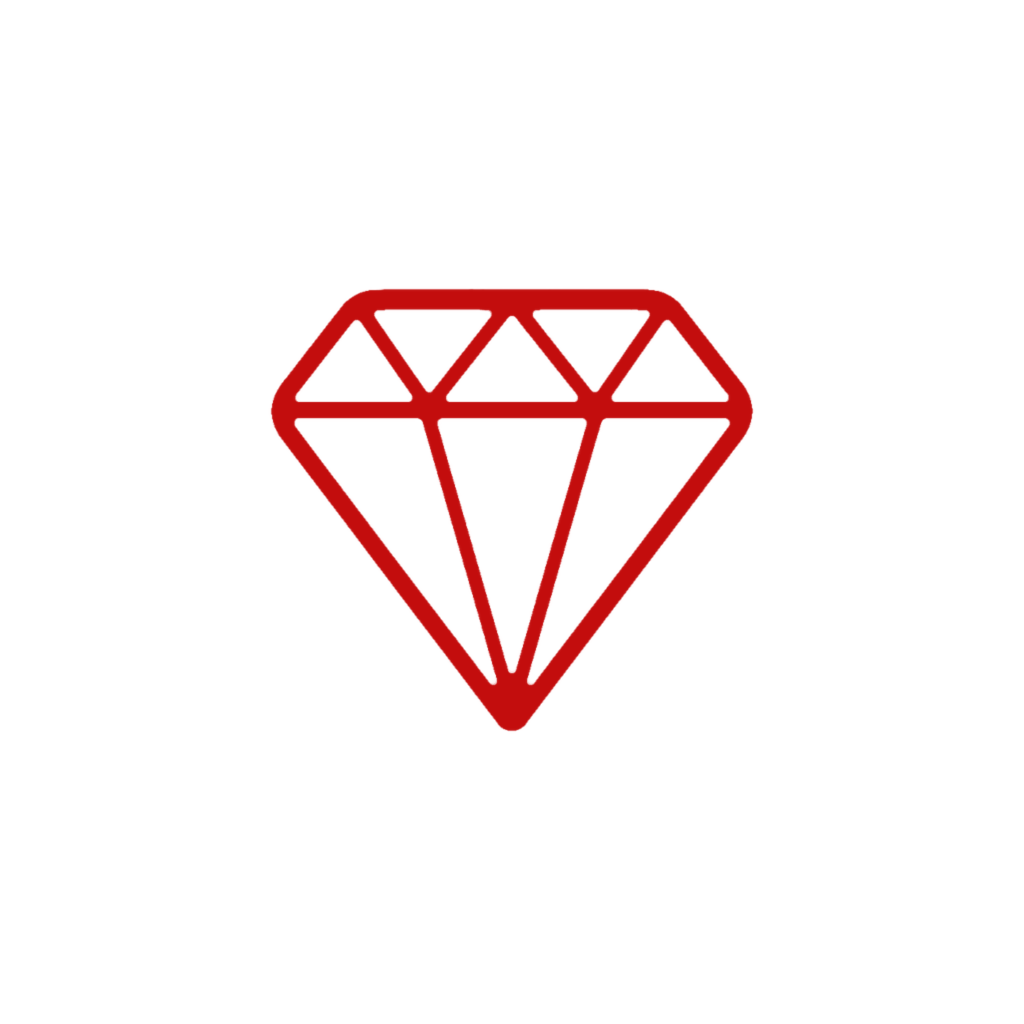
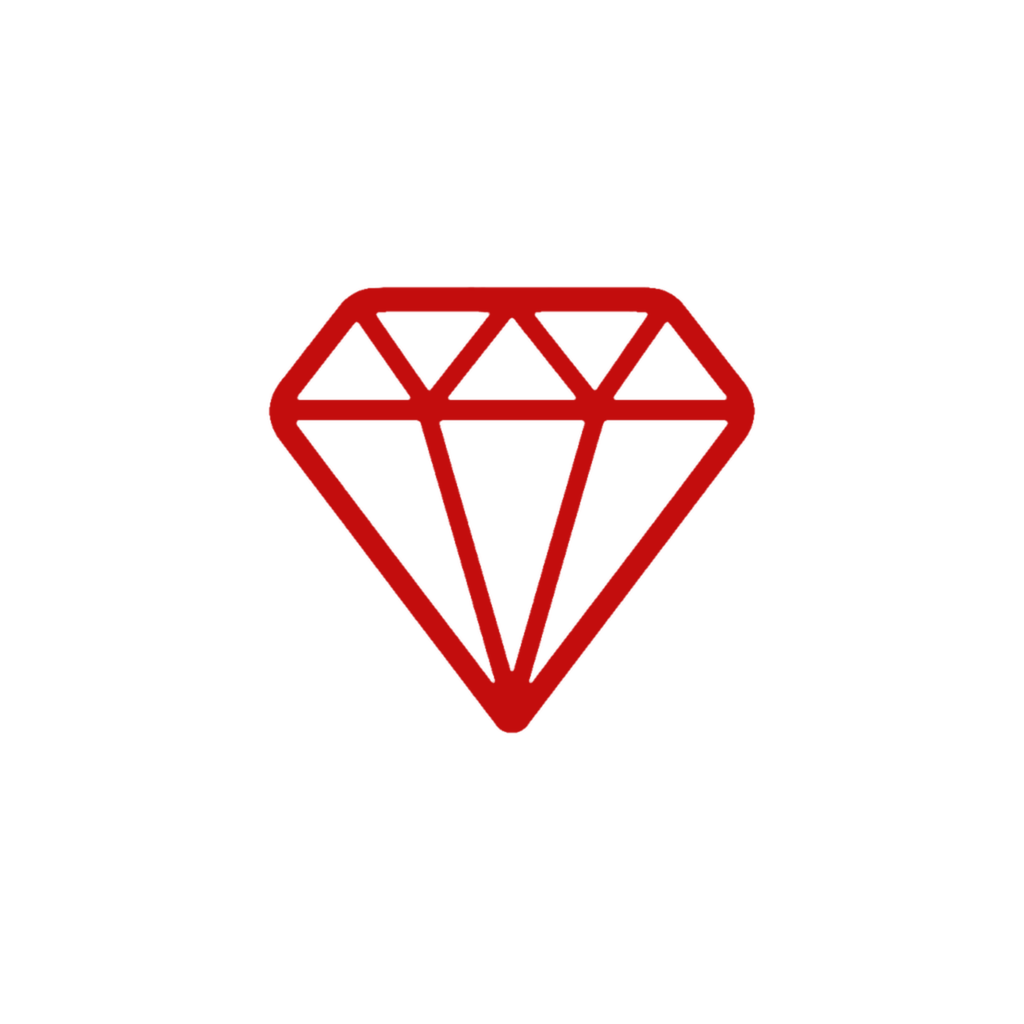
art(fortress): the International treasure draws a heavier line and sits lower
The diamond's outline was the lightest in the International set (23px against
24-28 for the rest) and its many thin facets made it read lighter still. It is
thickened to 28px, the soldier's weight, by round-kernel dilation of the alpha
at 2x. It also drops 2 units on its disc: the diamond is top-heavy, so centred
by its box it read high. The OG card frame mirrors the nudge. Art version 15.

Lesson: centre a top-heavy figure by its visual mass, not its bounding box, because a box-centred shape with a wide top and a point below reads as sitting high.
Lesson-class: visual-design
Lesson-scope: code
Lesson-trigger: design-choice
Lesson-stack: typescript, svg, pillow

Changed region(s): [[0.25, 0.2812, 0.75, 0.7188]]

diff --git a/apps/web/src/xiangqi-piece-sets.test.ts b/apps/web/src/xiangqi-piece-sets.test.ts
@@ -83,8 +83,8 @@ describe('renderXiangqiPieceGlyphed', () => {
     const cannon = renderXiangqiPieceGlyphed({ color: 'black', role: 'cannon' }, 'international', {
       className: 'xq-piece',
     });
-    expect(general).toContain('/piece-sets/xiangqi/international/red-general.png?v=14');
-    expect(cannon).toContain('/piece-sets/xiangqi/international/black-cannon.png?v=14');
+    expect(general).toContain('/piece-sets/xiangqi/international/red-general.png?v=15');
+    expect(cannon).toContain('/piece-sets/xiangqi/international/black-cannon.png?v=15');
     expect(general).toContain('x="-7" y="-7" width="114" height="114"');
     expect(cannon).toContain('x="-11" y="-11" width="122" height="122"');
     expect(cannon).toContain('class="xq-piece"');
@@ -174,7 +174,7 @@ describe('renderXiangqiPieceGlyphed', () => {
     const chessStyle = renderXiangqiPieceGlyphed(piece, 'international-flat', { crossed: true });
 
     expect(international).toContain(
-      '/piece-sets/xiangqi/international/red-crossed-soldier.png?v=14',
+      '/piece-sets/xiangqi/international/red-crossed-soldier.png?v=15',
     );
     expect(chessStyle).toContain(
       '/piece-sets/xiangqi/international-flat/red-crossed-soldier.png?v=2',
@@ -184,9 +184,10 @@ describe('renderXiangqiPieceGlyphed', () => {
   it('renders the international Fortress treasure from the generated cutout art', () => {
     const red = internationalTreasureMarks('red');
     const black = internationalTreasureMarks('black');
-    expect(red).toContain('/piece-sets/xiangqi/international/red-treasure.png?v=14');
-    expect(black).toContain('/piece-sets/xiangqi/international/black-treasure.png?v=14');
-    expect(red).toContain('x="-7" y="-7" width="114" height="114"');
+    expect(red).toContain('/piece-sets/xiangqi/international/red-treasure.png?v=15');
+    expect(black).toContain('/piece-sets/xiangqi/international/black-treasure.png?v=15');
+    // Two units below the other 114-unit figures: the diamond is top-heavy.
+    expect(red).toContain('x="-7" y="-5" width="114" height="114"');
     expect(red).toContain('fill="#fef0d7"');
     expect(red).toContain('stroke="#c30d0d"');
     expect(black).toContain('stroke="#202427"');

diff --git a/apps/web/src/xiangqi-piece-sets.ts b/apps/web/src/xiangqi-piece-sets.ts
@@ -313,9 +313,17 @@ const INTERNATIONAL_IMAGE_FRAMES: Record<InternationalArtRole, InternationalImag
   treasure: { x: -7, y: -7, width: 114, height: 114 },
 };
 
+// The treasure diamond is top-heavy (a wide table over a point), so centred by
+// its box it reads high on the disc; it drops 2 units to sit visually centred
+// (2026-09-25). The disc set only: the Chess-style figure has its own fits.
+const INTERNATIONAL_DISC_Y_NUDGE: Partial<Record<InternationalArtRole, number>> = {
+  treasure: 2,
+};
+
 function internationalImageMark(href: string, role: InternationalArtRole): string {
   const frame = INTERNATIONAL_IMAGE_FRAMES[role];
-  return `<image href="${escapeAttr(href)}" x="${frame.x}" y="${frame.y}" width="${frame.width}" height="${frame.height}" preserveAspectRatio="xMidYMid meet"/>`;
+  const y = frame.y + (INTERNATIONAL_DISC_Y_NUDGE[role] ?? 0);
+  return `<image href="${escapeAttr(href)}" x="${frame.x}" y="${y}" width="${frame.width}" height="${frame.height}" preserveAspectRatio="xMidYMid meet"/>`;
 }
 
 const INTERNATIONAL_FLAT_IMAGE_SCALE = 1.34;
@@ -368,7 +376,7 @@ function isImagePieceSet(set: XiangqiPieceSet): set is ImageXiangqiPieceSet {
 // query is needed to bust CDN/browser caches when the art changes (e.g. the v2
 // dobutsu-minimal swap). Bump on every animal-art change.
 const ANIMAL_ART_VERSION = 4;
-const INTERNATIONAL_ART_VERSION = 14;
+const INTERNATIONAL_ART_VERSION = 15;
 const INTERNATIONAL_FLAT_ART_VERSION = 2;
 
 function internationalPieceHref(piece: XiangqiPiece, crossed = false): string {

diff --git a/apps/server/src/og-card-board.ts b/apps/server/src/og-card-board.ts
@@ -183,7 +183,8 @@ const FRAMES: Record<string, { x: number; y: number; w: number; h: number }> = {
   cannon: { x: -11, y: -11, w: 122, h: 122 },
   soldier: { x: 0, y: 0, w: 100, h: 100 },
   'crossed-soldier': { x: 0, y: 0, w: 100, h: 100 },
-  treasure: { x: -7, y: -7, w: 114, h: 114 },
+  // 2 units low, as on the site's disc: the diamond is top-heavy (xiangqi-piece-sets.ts).
+  treasure: { x: -7, y: -5, w: 114, h: 114 },
 };
 
 // ── Geometry ──────────────────────────────────────────────────────────────────

diff --git a/apps/web/src/xiangqi-pieces.test.ts b/apps/web/src/xiangqi-pieces.test.ts
@@ -71,7 +71,7 @@ describe('xiangqi piece sprites', () => {
       { color: 'red', role: 'general' },
       { pieceSet: 'international' },
     );
-    expect(svg).toContain('/piece-sets/xiangqi/international/red-general.png?v=14');
+    expect(svg).toContain('/piece-sets/xiangqi/international/red-general.png?v=15');
     expect(svg).toContain('stroke="#c30d0d"');
     expect(svg).not.toContain(XIANGQI_GLYPH_PATHS.帥);
   });
